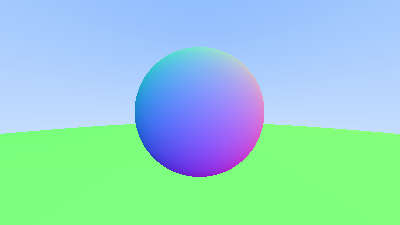
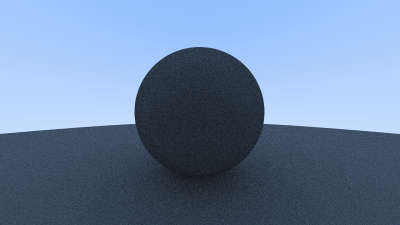
Making fuse reflection

diff --git a/RayTracer/src/ray.rs b/RayTracer/src/ray.rs
@@ -2,7 +2,7 @@ use image::{RgbImage, ImageBuffer};
 use indicatif::ProgressBar;
 use std::sync::Arc;
 use crate::color::write_color;
-use crate::utils::{Interval, Vec3};
+use crate::utils::{Interval, Vec3, rand01};
 use crate::utils;
 
 pub struct Ray {
@@ -22,10 +22,11 @@ impl Ray {
         self.ori + self.dir * t
     }
 
-    pub fn color(&self, world: &HittableList) -> Vec3 {
+    pub fn color<T: Hittable>(&self, world: &T) -> Vec3 {
         let t = Interval::new(0.0, std::f64::INFINITY);
         if let Some(rec) = world.hit(&self, &t) {
-            return 0.5 * (rec.normal + Vec3::new(1.0, 1.0, 1.0));
+            let dir = Vec3::random_on_hemisphere(&rec.normal);
+            return 0.5 * Ray::new(rec.p, dir).color(world);
         }
 
         let blue = Vec3::new(0.5, 0.7, 1.0);
@@ -109,6 +110,7 @@ pub struct Camera {
     pub pixel_delta_v: Vec3,
     pub view_upper_left: Vec3,
     pub pixel00_loc: Vec3,
+    pub sample_times: usize,
 }
 
 impl Camera {
@@ -118,6 +120,7 @@ impl Camera {
         ratio: f64,
         focal_length: f64,
         camera_center: Vec3,
+        sample_times: usize,
     ) -> Self {
         let image_width = img_width;
         let image_height = ((img_width as f64 / ratio) as usize).max(1);
@@ -147,7 +150,18 @@ impl Camera {
             pixel_delta_v,
             view_upper_left,
             pixel00_loc,
+            sample_times,
         }
+    }
+
+    fn sample_square() -> Vec3 {
+        Vec3::new(rand01()-0.5, rand01()-0.5, 0.0)
+    }
+
+    fn get_ray(&self, u: f64, v: f64) -> Ray {
+        let offset = Camera::sample_square();
+        let pixel_sample = self.pixel00_loc + ((u+offset.x) * self.pixel_delta_u) + ((v+offset.y) * self.pixel_delta_v);
+        Ray::new(self.camera_center, pixel_sample - self.camera_center)
     }
 
     pub fn render(&self, world: &HittableList) -> RgbImage {
@@ -159,13 +173,15 @@ impl Camera {
 
         let mut img: RgbImage = ImageBuffer::new(self.image_width as u32, self.image_height as u32);
 
+        let sample_scale = 1.0 / (self.sample_times as f64);
         for j in 0..self.image_height {
             for i in 0..self.image_width {
-                let pixel_center = self.pixel00_loc
-                    + self.pixel_delta_u * (i as f64)
-                    + self.pixel_delta_v * (j as f64);
-                let ray = Ray::new(self.camera_center, pixel_center - self.camera_center);
-                let color = ray.color(&world);
+                let mut color = Vec3::new(0.0, 0.0, 0.0);
+                for _ in 0..self.sample_times {
+                    let ray = self.get_ray(i as f64, j as f64);
+                    color += ray.color(world);
+                }
+                color = color * sample_scale;
                 write_color(color.rgb(), &mut img, i, j);
                 bar.inc(1);
             }

diff --git a/RayTracer/src/utils.rs b/RayTracer/src/utils.rs
@@ -1,8 +1,13 @@
 use lazy_static::lazy_static;
 use std::ops::{Add, AddAssign};
+use rand::{distributions::{Open01, Uniform}, thread_rng, Rng};
 
 pub fn is_ci() -> bool {
     option_env!("CI").unwrap_or_default() == "true"
+}
+
+pub fn rand01() -> f64 {
+    thread_rng().sample::<f64, _>(Open01)
 }
 
 #[derive(Clone, Debug, PartialEq, Copy)]
@@ -34,7 +39,11 @@ impl Vec3 {
     }
 
     pub fn rgb(&self) -> [u8; 3] {
-        [(self.x*255.99) as u8, (self.y*255.99) as u8, (self.z*255.99) as u8]
+        [
+            (self.x.max(0.0).min(0.999) * 255.99) as u8,
+            (self.y.max(0.0).min(0.999) * 255.99) as u8,
+            (self.z.max(0.0).min(0.999) * 255.99) as u8,
+        ]
     }
 
     pub fn normalize(&self) -> Self {
@@ -43,7 +52,43 @@ impl Vec3 {
     }
 
     pub fn dot(&self, other: &Self) -> f64 {
-	self.x * other.x + self.y * other.y + self.z * other.z
+        self.x * other.x + self.y * other.y + self.z * other.z
+    }
+
+    pub fn random() -> Self {
+        Self::new(rand01(), rand01(), rand01())
+    }
+
+    pub fn random_in(min: f64, max: f64) -> Self {
+        let mut rngs = thread_rng();
+        let dist = Uniform::new(min, max);
+        Self::new(
+            rngs.sample(dist),
+            rngs.sample(dist),
+            rngs.sample(dist),
+        )
+    }
+
+    pub fn random_in_unit_sphere() -> Self {
+        loop {
+            let p = Self::random_in(-1.0, 1.0);
+            if p.squared_length() < 1.0 {
+                return p;
+            }
+        }
+    }
+
+    pub fn random_unit() -> Self {
+        Self::random_in_unit_sphere().normalize()
+    }
+
+    pub fn random_on_hemisphere(normal: &Self) -> Self {
+        let in_unit_sphere = Self::random_in_unit_sphere();
+        if in_unit_sphere.dot(normal) > 0.0 {
+            in_unit_sphere
+        } else {
+            -in_unit_sphere
+        }
     }
 }
 
@@ -294,18 +339,8 @@ lazy_static! {
 }
 
 impl Interval {
-    pub fn default() -> Self {
-        Self {
-            min: std::f64::NEG_INFINITY,
-            max: std::f64::INFINITY,
-        }
-    }
-
     pub fn new(min: f64, max: f64) -> Self {
-        Self {
-            min,
-            max,
-        }
+        Self { min, max }
     }
 
     // pub fn empty() -> Self {
@@ -326,5 +361,18 @@ impl Interval {
 
     pub fn surrounds(&self, value: f64) -> bool {
         value > self.min && value < self.max
+    }
+
+    pub fn clamp(&self, value: f64) -> f64 {
+        value.max(self.min).min(self.max)
+    }
+}
+
+impl Default for Interval {
+    fn default() -> Self {
+        Self {
+            min: std::f64::NEG_INFINITY,
+            max: std::f64::INFINITY,
+        }
     }
 }

diff --git a/RayTracer/src/main.rs b/RayTracer/src/main.rs
@@ -32,7 +32,8 @@ fn main() {
         2.0,
         16.0 / 9.0,
         1.0,
-        Vec3::new(0.0, 0.0, 0.0)
+        Vec3::new(0.0, 0.0, 0.0),
+        100,
     );
     let mut world = HittableList::new();
     world.add(Arc::new(Sphere::new(Vec3::new(0.0, 0.0, -1.0), 0.5)));
